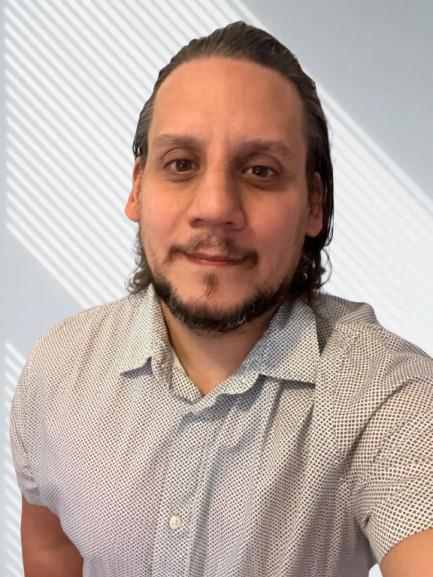
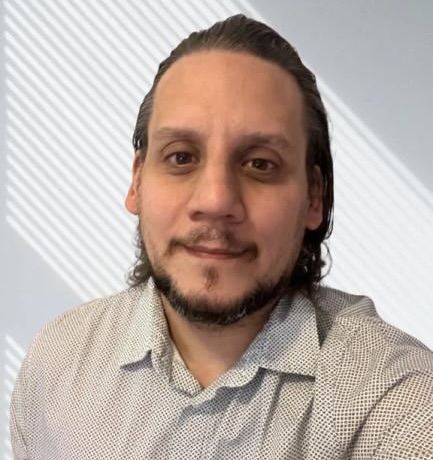
QW-145: Colgar fotos de Javi y Enrique

diff --git a/src/components/react/team/TeamGrid.tsx b/src/components/react/team/TeamGrid.tsx
@@ -7,6 +7,8 @@ import imgFran from "../../../assets/team-fran.png";
 import imgElena from "../../../assets/team-elena.png";
 import imgJuanpe from "../../../assets/team-juanpe.jpeg";
 import imgPatricia from "../../../assets/team-patricia.jpeg";
+import imgEnrique from "../../../assets/instructor/instructor-enrique.jpeg";
+import imgJavi from "../../../assets/instructor/instructor-javi.jpeg";
 
 const teamMembers = [
   {
@@ -57,6 +59,30 @@ const teamMembers = [
       "Arquitectura de la plataforma",
       "Desarrollo Fullstack (Web)",
       "Experiencia de Usuario (UX/UI)",
+    ],
+  },
+  {
+    name: "Javier Flores",
+    role: "INSTRUCTOR TECH · AUTOMATIZACIÓN QA",
+    image: imgJavi.src,
+    position: "object-center",
+    scale: "scale-80",
+    highlights: [
+      "Cypress Ambassador (2026)",
+      "Automatización eficiente",
+      "Frameworks mantenibles",
+    ],
+  },
+  {
+    name: "Enrique Román",
+    role: "INSTRUCTOR TECH · POWER BI & ANALÍTICA",
+    image: imgEnrique.src,
+    position: "object-center",
+    scale: "scale-80",
+    highlights: [
+      "Modelado de datos",
+      "Analítica de negocio",
+      "Toma de decisiones",
     ],
   },
 ];
